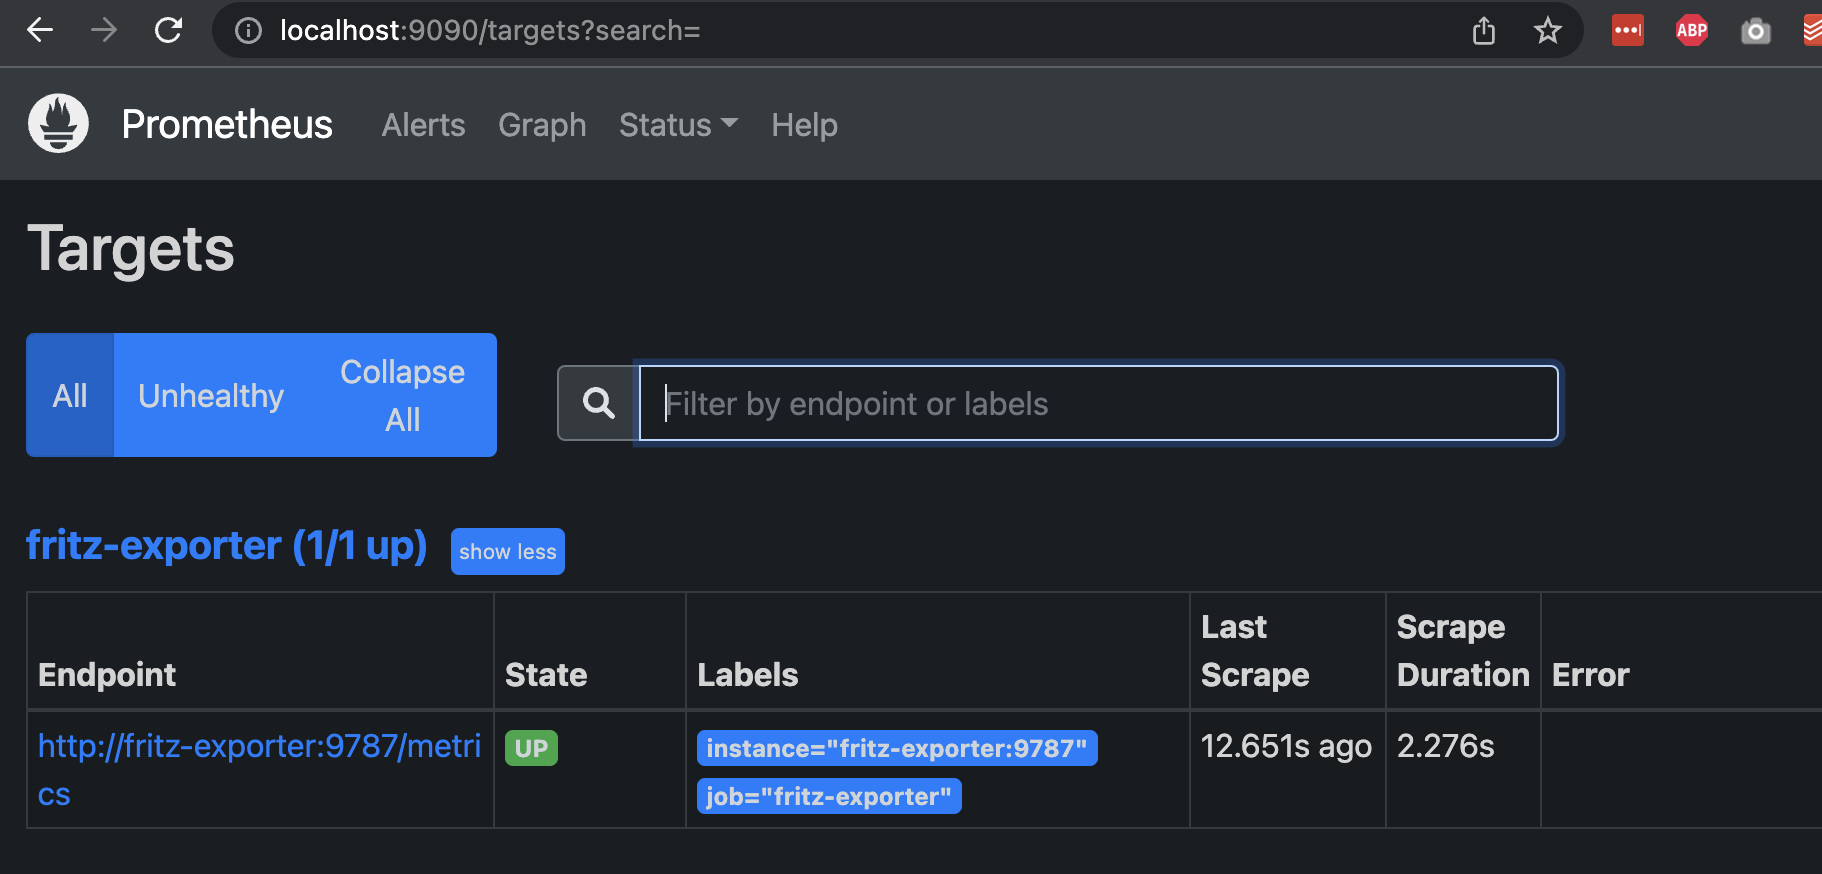
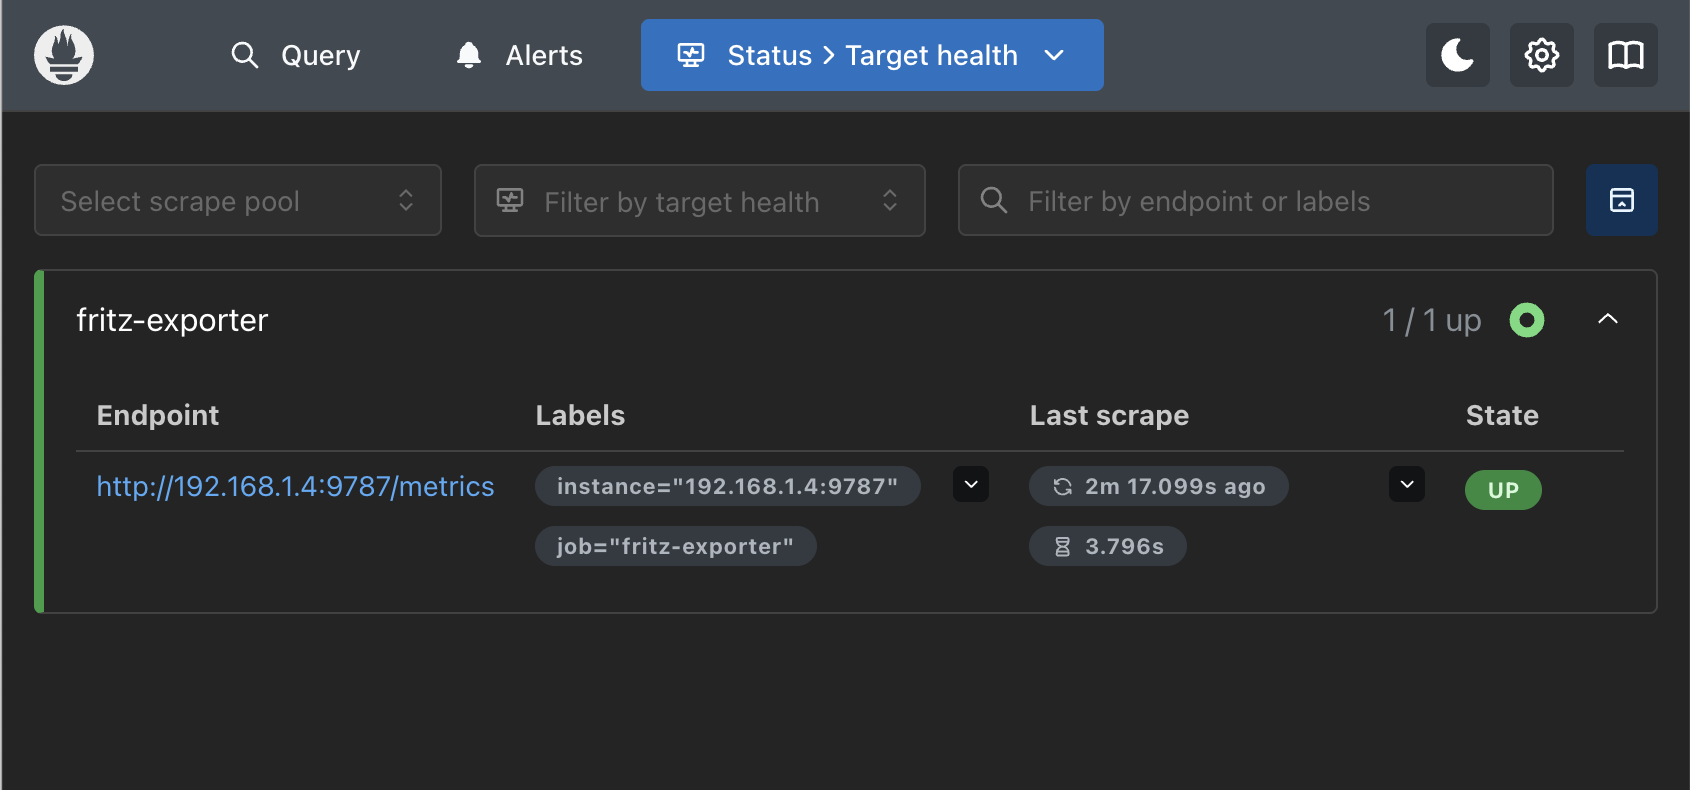
chore(docs): Update docs to use recent versions of all software mentioned
Also updated screenshots to match new UI from Prometeus 3 and Grafana >=11

diff --git a/docs/quickstart.rst b/docs/quickstart.rst
@@ -18,10 +18,9 @@ Create an empty directory ``fritz-exporter`` and place a file ``docker-compose.y
 
 .. code-block:: yaml
 
-  version: "3.8"
   services:
     fritz-exporter:
-      image: pdreker/fritz_exporter:2
+      image: pdreker/fritz_exporter:3
       container_name: fritz-exporter
       restart: unless-stopped
       environment:
@@ -33,7 +32,7 @@ Create an empty directory ``fritz-exporter`` and place a file ``docker-compose.y
 
     prometheus:
       container_name: prometheus
-      image: prom/prometheus:v2.38.0
+      image: prom/prometheus:v3
       restart: unless-stopped
       volumes:
         - ./prometheus/:/etc/prometheus/
@@ -42,7 +41,7 @@ Create an empty directory ``fritz-exporter`` and place a file ``docker-compose.y
 
     grafana:
       container_name: grafana
-      image: grafana/grafana:9.1.6
+      image: grafana/grafana:13.1
       ports:
         - 3000:3000
 
@@ -66,14 +65,14 @@ Next run ``docker compose up -d`` which should start the 3 services. Use ``docke
 
   ❯ docker ps -a
   CONTAINER ID   IMAGE                           COMMAND                  CREATED         STATUS         PORTS                    NAMES
-  2bb64e672ddf   prom/prometheus:v2.38.0         "/bin/prometheus --c…"   3 seconds ago   Up 2 seconds   0.0.0.0:9090->9090/tcp   prometheus
+  2bb64e672ddf   prom/prometheus:v3              "/bin/prometheus --c…"   3 seconds ago   Up 2 seconds   0.0.0.0:9090->9090/tcp   prometheus
   3b4a78035327   pdreker/fritz_exporter:v2.1.1   "python -m fritzexpo…"   3 seconds ago   Up 2 seconds   0.0.0.0:9787->9787/tcp   fritz-exporter
-  9c7473367721   grafana/grafana:9.1.6           "/run.sh"                3 seconds ago   Up 2 seconds   0.0.0.0:3000->3000/tcp   grafana
+  9c7473367721   grafana/grafana:13.1            "/run.sh"                3 seconds ago   Up 2 seconds   0.0.0.0:3000->3000/tcp   grafana
 
 Checking Prometheus
 -------------------
 
-Point your browser to http://localhost:9090/ to access the prometheus UI and navigate to Status -> Targets. You should see the fritz-exporter Target (the exporter) being **Up**. If the ``Last Scrape`` Column says "never", wait for a minute and reload.
+Point your browser to http://localhost:9090/targets to access the prometheus UI and navigate to Status -> Targets. You should see the fritz-exporter Target (the exporter) being **Up**. If the ``Last Scrape`` Column says "never", wait for a minute and reload.
 
 .. image:: _static/prometheus_target.png
 

diff --git a/docs/running.rst b/docs/running.rst
@@ -36,10 +36,9 @@ To run the exporter from docker-compose create an empty directory ``fritz-export
 .. code-block:: yaml
 
   # Example file for running the exporter from the published image at hub.docker.com
-  version: "3.8"
   services:
     fritz-exporter:
-      image: pdreker/fritz_exporter:2
+      image: pdreker/fritz_exporter:3
       container_name: fritz-exporter
       restart: always
       environment:
@@ -58,10 +57,9 @@ Create an empty directory ``fritz-exporter`` and put a file ``docker-compose.yml
 
 .. code-block:: yaml
 
-  version: "3.8"
   services:
     fritz-exporter:
-      image: pdreker/fritz_exporter:2
+      image: pdreker/fritz_exporter:3
       command: --config /fritz-exporter.yml
       container_name: fritz-exporter
       restart: always
